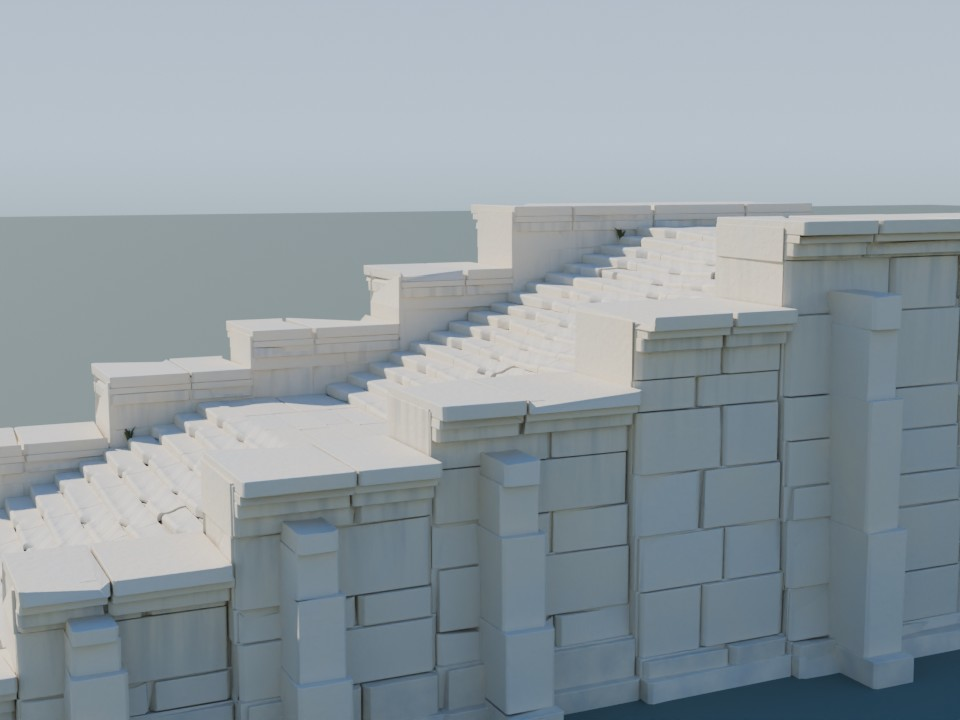
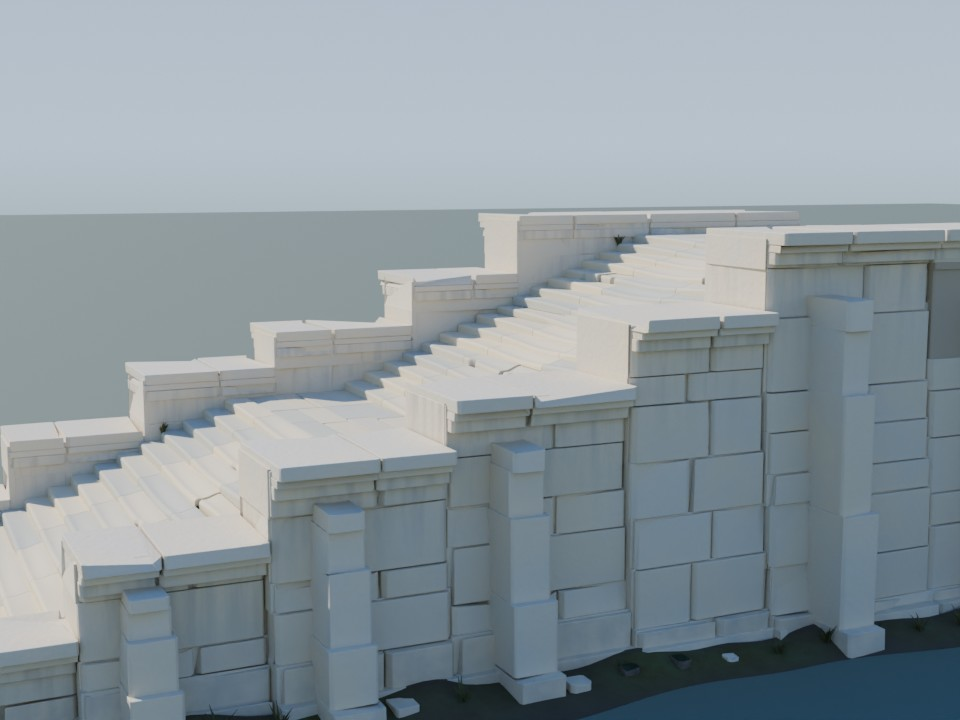
Wear stair paving and blend its foundation into turf

diff --git a/assets/monuments/stair_terrace_a/build.py b/assets/monuments/stair_terrace_a/build.py
@@ -15,7 +15,8 @@ def limestone(name):
     mat = bpy.data.materials.get(local_name)
     if mat is not None:
         return mat
-    mat = vrmat.get(name).copy()
+    source = {"paving": "monument_white", "paving_joint": "monument_weathered", "terrain_skirt": "grass_ground"}
+    mat = vrmat.get(source.get(name, name)).copy()
     mat.name = local_name
     nodes, links = mat.node_tree.nodes, mat.node_tree.links
     surface = nodes["Principled BSDF"]
@@ -53,6 +54,33 @@ def limestone(name):
                 links.new(value, socket)
         return node.outputs["Color"]
 
+    if name == "terrain_skirt":
+        coverage = nodes.new("ShaderNodeAttribute")
+        coverage.attribute_name = "turf_coverage"
+        green = surface.inputs["Base Color"].links[0].from_socket
+        soil = tuple(palette["soil"]["linear_rgb"])
+        links.new(mix(coverage.outputs["Fac"], soil, green), surface.inputs["Base Color"])
+        return mat
+
+    if name in ("paving", "paving_joint"):
+        if name == "paving":
+            tint = nodes.new("ShaderNodeAttribute")
+            tint.attribute_name = "paving_tint"
+            slate = tuple(c*k for c,k in zip(cream, (.73, .81, .89)))
+            ivory = tuple(c*k for c,k in zip(cream, (1.06, 1.02, .93)))
+            links.new(ramp(tint.outputs["Fac"], 0, 1, (slate, ivory)), surface.inputs["Base Color"])
+        else:
+            for link in list(surface.inputs["Base Color"].links):
+                links.remove(link)
+            surface.inputs["Base Color"].default_value = (
+                *(a*.68+b*.32 for a,b in zip(seam, palette["soil"]["linear_rgb"])), 1)
+        for socket in (surface.inputs["Normal"], surface.inputs["Roughness"]):
+            for link in list(socket.links):
+                links.remove(link)
+        surface.inputs["Roughness"].default_value = .84
+        surface.inputs["Specular IOR Level"].default_value = .25
+        return mat
+
     variation = noise(.87, 3)
     tone = ramp(variation, .23, .79, (cool, pale))
     random_tone = nodes.new("ShaderNodeObjectInfo").outputs["Random"]
@@ -87,26 +115,24 @@ def limestone(name):
     return mat
 
 
-def tread_mesh(bounds, chip, damaged_edge, sink):
+def tread_mesh(bounds, chip, chip_site, damaged_edge, sink):
     x0, x1, y0, y1, bottom, top = bounds
     depth = y1-y0
     min_surface_z = bottom+.035
-    site = .18+.63*abs(math.sin(17*y0+5*x0))
     samples = sorted({*(j/64 for j in range(65)),
-                      *(v for v in (site-.105,site,site+.105) if abs(64*v-round(64*v))>.14)})
+                      *(v for v in (chip_site-.105,chip_site,chip_site+.105) if chip and abs(64*v-round(64*v))>.14)})
     vertices = []
     for v in samples:
         x = x0+(x1-x0)*v
         lane = math.exp(-((x-.14-.17*math.sin(y0))/1.48)**2)
-        edge_loss = chip * max(0, 1-abs(v-site)/.105)
+        edge_loss = chip * max(0, 1-((v-chip_site)/.105)**2)**2
         radius = .045+.032*lane
         nose = radius/depth
         surface=[]
         for j in range(25):
             t=1-(1-nose)*j/24
             dip=.10*lane*math.sin(math.pi*(1-t)/1.49)**2
-            noise=lane*(.005*math.sin(12*x+7*t+y0)+.0016*math.sin(31*x+21*t))
-            surface.append((t,top-dip+noise-edge_loss*max(0,1-t/.42)*.49))
+            surface.append((t,top-dip-edge_loss*max(0,1-t/.32)*.32))
         for j in range(1,11):
             angle=math.pi*j/20
             t=nose*(1-math.sin(angle))
@@ -127,11 +153,12 @@ def tread_mesh(bounds, chip, damaged_edge, sink):
     return vertices, faces, n
 
 
-def ashlar(name, bounds, rng, stone, wear=.022, chip=0, coping_z=None):
+def ashlar(name, bounds, rng, stone, wear=.022, chip=0, coping_z=None, tint=None):
     x0, x1, y0, y1, z0, z1 = bounds
     bevel_width = wear*.51
     z0 = max(-.059 + bevel_width, z0)
-    chip = max(chip, min(.026 + .012*abs(math.sin(4*x0 + 7*y0 + 13*z0)), (z1-z0)*.19))
+    if stone != "paving":
+        chip = max(chip, min(.026 + .012*abs(math.sin(4*x0 + 7*y0 + 13*z0)), (z1-z0)*.19))
     chamfer = min(wear * 1.9, (z1 - z0) * .22)
     footprint = [(x0 + chamfer, y0), (x1 - chamfer, y0), (x1, y0 + chamfer),
                  (x1, y1 - chamfer), (x1 - chamfer, y1), (x0 + chamfer, y1),
@@ -144,19 +171,21 @@ def ashlar(name, bounds, rng, stone, wear=.022, chip=0, coping_z=None):
     vertices += [(x + rng.uniform(-wear, wear)*.31 + (.07*(x0+x1-2*x) if i == notch else 0),
                   y + rng.uniform(-wear, wear)*.37 + (.07*(y0+y1-2*y) if i == notch else 0),
                   z1 - (chip if i == notch else 0)) for i,(x, y) in enumerate(corners)]
+    if stone == "paving" and not chip:
+        vertices[n+notch] = (*corners[notch], z1)
     faces = [tuple(reversed(range(n)))]
     for i in range(n):
         a, b = i, (i+1)%n
         faces.append((a,b,b+n,a+n))
     faces.append(tuple(range(n,len(vertices))))
-    obj = masonry(name, vertices, faces, stone, coping_z)
+    obj = masonry(name, vertices, faces, stone, coping_z, tint=tint)
     bevel = obj.modifiers.new("Soft quarry edges", "BEVEL")
     bevel.width, bevel.segments = bevel_width, 2
     bevel.limit_method, bevel.angle_limit = "ANGLE", math.radians(20)
     obj.modifiers.new("Dressed face normals", "WEIGHTED_NORMAL")
 
 
-def masonry(name, vertices, faces, stone, coping_z=None):
+def masonry(name, vertices, faces, stone, coping_z=None, tint=None):
     mesh = bpy.data.meshes.new(name)
     mesh.from_pydata([(-y, x, z) for x, y, z in vertices], [], faces)
     mesh.update()
@@ -166,11 +195,88 @@ def masonry(name, vertices, faces, stone, coping_z=None):
     if coping_z is not None:
         runoff = mesh.attributes.new("coping_runoff", "FLOAT", "POINT")
         runoff.data.foreach_set("value", [max(0, min(1, 1-(coping_z-z)/1.68)) for _,_,z in vertices])
+    if tint is not None:
+        tone = mesh.attributes.new("paving_tint", "FLOAT", "POINT")
+        tone.data.foreach_set("value", [tint]*len(vertices))
     return obj
+
+
+def grass_tuft(name, x, y, z, height, count, rng, spread=.036):
+    for blade in range(count):
+        vertices = []
+        angle = rng.uniform(0, math.tau)
+        dx,dy = math.cos(angle),math.sin(angle)
+        h = height*rng.uniform(.48, 1)
+        root_x,root_y = x+rng.uniform(-spread,spread),y+rng.uniform(-spread,spread)
+        width = .7+.3*min(1,height/.2)
+        for dz,lean,w in ((-.025,0,.010),(h*.56,h*.26,.018),(h,h*.67,.002)):
+            px,py = root_x+lean*dx,root_y+lean*dy
+            w *= width
+            vertices.extend(((px+w*dx,py+w*dy,z+dz),(px-w*dy,py+w*dx,z+dz),
+                             (px-.62*w*dx+.74*w*dy,py-.62*w*dy-.74*w*dx,z+dz)))
+        faces = [(2,1,0),(6,7,8)]
+        faces.extend((k*3+i,k*3+(i+1)%3,(k+1)*3+(i+1)%3,(k+1)*3+i)
+                     for k in range(2) for i in range(3))
+        masonry(f"{name} blade {blade+1}", vertices, faces, "grass_ground")
+
+
+def terrain_skirt(start, back):
+    rng = random.Random(82510)
+    flank = ((3.74,start+.15),(4.61,start+.60),(4.72,start+2.55),(5.20,start+3.2),
+             (5.42,start+5.43),(5.68,start+8.1),(5.75,start+11.3),
+             (5.99,start+14.4),(6.16,start+17.6),(5.92,back+.42))
+    outline = ((-3.30,start+.13), (0,start+.05),(3.30,start+.13), *flank,
+               (4.79,back+.57),(1.75,back+.61),(-1.61,back+.65),(-4.87,back+.64),
+               *((-x,y) for x,y in reversed(flank)))
+    samples = []
+    for (x,y),(next_x,next_y) in zip(outline, outline[1:]+outline[:1]):
+        segments = max(1, math.ceil(math.hypot(next_x-x,next_y-y)/.22))
+        samples.extend((x+(next_x-x)*i/segments,y+(next_y-y)*i/segments) for i in range(segments))
+    n = len(samples)
+    vertices, coverage = [], []
+    contacts = []
+    for i,(x,y) in enumerate(samples):
+        distance = math.hypot(x,y)
+        dx,dy = x/distance,y/distance
+        front = y < start+.45 and abs(x)<3.4
+        bank = .088 if front else .238
+        width = .81+.19*math.sin(i*.18)+.10*math.cos(i*.39)
+        patch = .53+.30*math.sin(i*.22)+.16*math.cos(i*.57)
+        high = bank*(.88+.29*math.sin(i*.37)+.13*math.cos(i*.78))
+        bands = ((-.46,high,.26),(-.11,high*.96,.78),(.25,high*.68,.94),
+                 (.65,high*.34,.74),(1.08,-.013,.29),(1.08,-.055,0),(-.46,-.055,0))
+        for offset,z,turf in bands:
+            vertices.append((x+dx*offset*width,y+dy*offset*width,z))
+            coverage.append(max(0,min(1,turf*(.27+patch))))
+        if not front:
+            contacts.append(vertices[-5])
+    bands = len(vertices)//n
+    faces = [(i*bands+j,i*bands+(j+1)%bands,((i+1)%n)*bands+(j+1)%bands,((i+1)%n)*bands+j)
+             for i in range(n) for j in range(bands)]
+    skirt = masonry("Scalloped soil and turf skirt", vertices, faces, "terrain_skirt")
+    blend = skirt.data.attributes.new("turf_coverage", "FLOAT", "POINT")
+    blend.data.foreach_set("value", coverage)
+    for face in skirt.data.polygons:
+        face.use_smooth = face.index%bands<4
+    for i in range(2,len(contacts)-2,4):
+        x,y,z = contacts[i]
+        if rng.random()<.61:
+            grass_tuft(f"Skirt grass tuft {i}", x,y,z-.035,rng.uniform(.21,.38),rng.randrange(5,13),rng)
+        else:
+            w,d = rng.uniform(.09,.24),rng.uniform(.09,.21)
+            mossy = rng.random()<.48
+            ashlar(f"Skirt {'mossy' if mossy else 'limestone'} rubble {i}",
+                   (x-w,x+w,y-d,y+d,z-.082,z+rng.uniform(.04,.14)),rng,
+                   "mossy_rock" if mossy else "monument_weathered",.027,chip=.054)
+            if mossy:
+                offset_x,offset_y = x/math.hypot(x,y),y/math.hypot(x,y)
+                grass_tuft(f"Skirt moss cushion {i}", x-.24*offset_x,y-.24*offset_y,z+.008,
+                           rng.uniform(.067,.098),rng.randrange(12,19),rng,spread=.077)
 
 
 def build():
     rng = random.Random(251553)
+    wear_rng = random.Random(32809)
     white, old = "monument_white", "monument_weathered"
     rise = 6 / 34
     tread = .42
@@ -185,24 +291,27 @@ def build():
         if bed_top-bottom > .023:
             ashlar(f"{label} recessed bearing", (cuts[0]+.038,cuts[-1]-.038,
                                                 y0+.025,y1-.026,bottom,bed_top),
-                   rng,white,.013)
+                   rng,"paving_joint",.013)
         for k, (x0, x1) in enumerate(zip(cuts, cuts[1:])):
             name = f"{label} slab {k}"
+            tint = wear_rng.uniform(0, 1)
             if step is None:
-                ashlar(name, (x0+.008,x1-.008,y0,y1,top-.115,top), rng, white, .021 if worn else .013)
+                ashlar(name, (x0+.008,x1-.008,y0,y1,top-.115,top), rng, "paving",
+                       .034 if worn else .026, chip=.045 if wear_rng.random()<.13 else 0, tint=tint)
                 continue
             broken = (step, k) in ((2,0),(8,1),(14,2),(21,1),(29,0))
             sunken = (step, k) in ((5,0),(12,2),(25,0),(30,2))
             crack = x0+(x1-x0)*.64
             pieces = ((x0+.008, crack-.021, 1), (crack+.021, x1-.008, -1)) if broken else (
                 (x0+.008,x1-.008,0),)
+            chip = .092 if broken else wear_rng.uniform(.028,.052) if wear_rng.random()<.07 else 0
+            chip_site = wear_rng.uniform(.18,.82)
             for i, (left, right, edge) in enumerate(pieces):
                 drift = .057 if sunken or (broken and i == 1) else 0
                 sink = .021 if sunken or (broken and i == 1) else 0
-                chip = .138 if broken else .040+.077*abs(math.sin(step*2.8+k*1.7))
                 bounds = (left, right, y0+drift, y1, top-.191, top)
-                vertices, faces, n = tread_mesh(bounds, chip, edge, sink)
-                obj = masonry(f"{name} piece {i}" if broken else name, vertices, faces, white)
+                vertices, faces, n = tread_mesh(bounds, chip, chip_site, edge, sink)
+                obj = masonry(f"{name} piece {i}" if broken else name, vertices, faces, "paving", tint=tint)
                 for face in obj.data.polygons[1:-1]:
                     face.use_smooth = 2 <= (face.index-1)%n < n-1
                 obj.data.set_sharp_from_angle(angle=math.radians(36))
@@ -224,7 +333,7 @@ def build():
         course(f"Summit terrace bay {j}", (-5.26, -3.50, -1.72 + shift, .15 - shift, 2.05 + shift, 3.5, 5.26),
                y0, y1, 0, 6, j in (0, 4))
     ashlar("Pale summit joint bedding",(-5.26,5.26,upper_end,back,5.783,5.90),
-           rng,white,.01)
+           rng,"paving_joint",.01)
 
     # The broad retaining cheeks step back in plan, leaving the treads and upper terrace open.
     cheek = [
@@ -291,13 +400,7 @@ def build():
                    rng,white,.039,chip=.14 if (j+k)%5==0 else 0,coping_z=5.98)
         ashlar(f"Rear pilaster {j} head",(x-.57,x+.57,back-.24,back+.68,5.76,6.15),
                rng,white,.036,chip=.116 if j%2 else 0)
-    for seed,(x,y) in enumerate(((4.58,start+1.08),(5.10,start+4),(-5.39,lower_end-.14),
-                                  (-5.73,upper_end-.22),(-4.8,back+.71),(.73,back+.09),(2.63,back+.65))):
-        for i in range(12):
-            u,v = x+rng.uniform(-.15,.15), y+rng.uniform(-.22,.22)
-            ashlar(f"Foot joint moss cluster {seed} fragment {i}",
-                   (u,u+.12,v,v+.17,-.11,rng.uniform(.034,.12)),rng,
-                   "mossy_rock" if i%3 else "dirt_path",.009)
+    terrain_skirt(start, back)
     for i,(step,x) in enumerate(((2,-3.34),(7,3.35),(13,-3.35),(20,3.35),(26,3.34),(32,-3.36))):
         y=(start if step < 17 else upper_start)+(step%17)*tread+.028
         z=(step+1)*rise-.065
